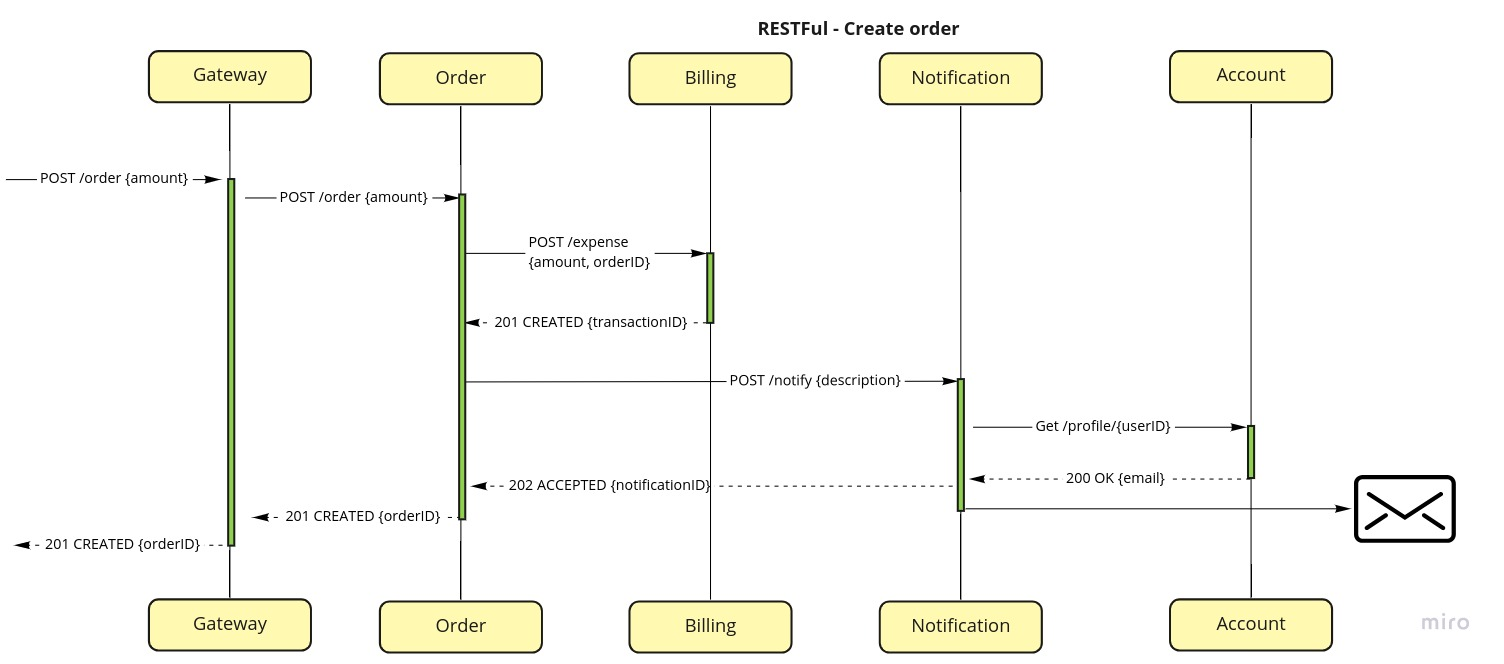
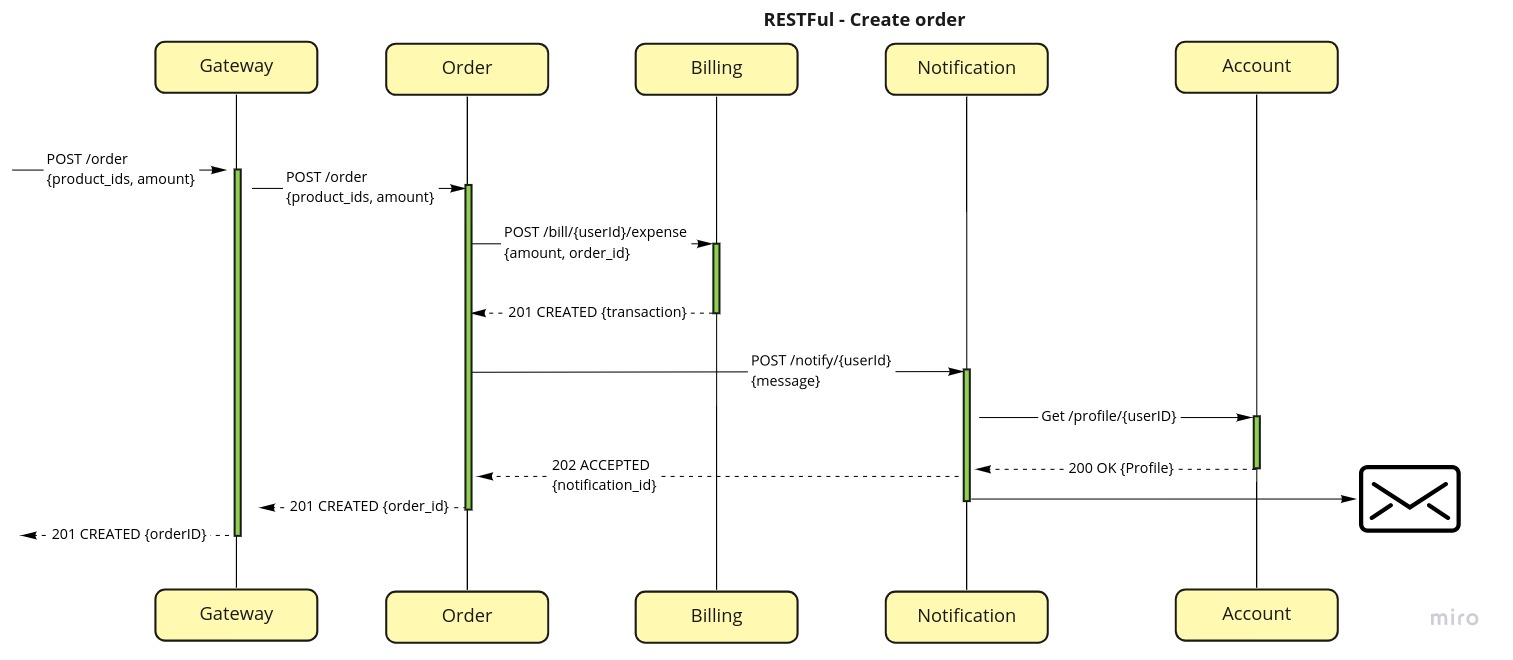
update communication scheme for restul arch

diff --git a/task06/README.md b/task06/README.md
@@ -11,8 +11,12 @@ Below we will describe the communication and IDL schemes for different architect
 - [Notification service](https://github.com/ds-vologdin/otus-software-architect/blob/main/task06/arch/restful/notification.yml)
 - [Account service](https://github.com/ds-vologdin/otus-software-architect/blob/main/task06/arch/restful/account.yml)
 
-## Communication scheme 
+## Communication scheme
 ![restful](https://github.com/ds-vologdin/otus-software-architect/blob/main/task06/images/restful.jpg)
+
+## Notes
+
+Notification service should use a cache to reduce the count of requests to Account service.
 
 ## Event Notifications
 
